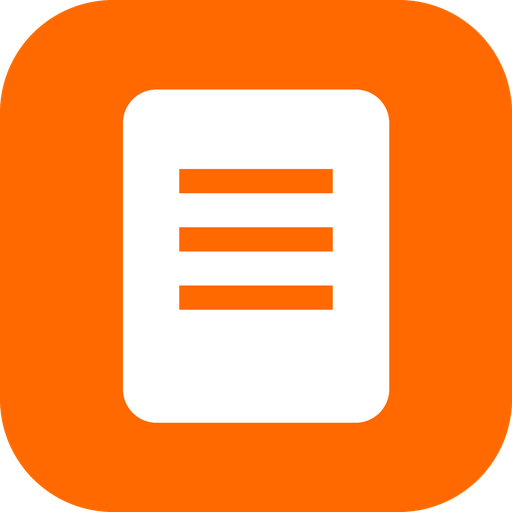
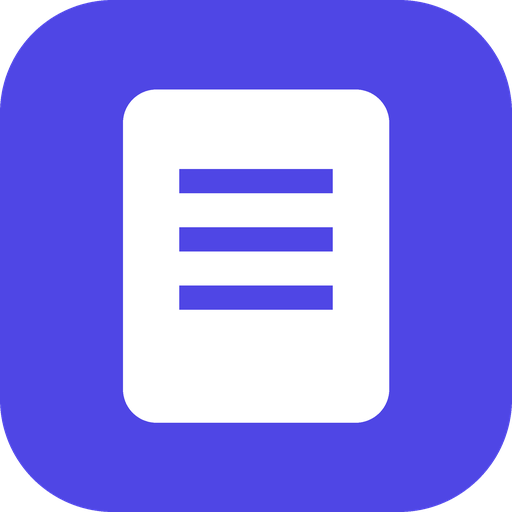
up

diff --git a/index.html b/index.html
@@ -3,7 +3,7 @@
 <head>
 <meta charset="utf-8">
 <meta name="viewport" content="width=device-width,initial-scale=1,viewport-fit=cover,interactive-widget=resizes-content">
-<meta name="theme-color" content="#FAFAF8" id="metaTheme">
+<meta name="theme-color" content="#F8F8FA" id="metaTheme">
 <meta name="color-scheme" content="light dark">
 <meta name="mobile-web-app-capable" content="yes">
 <meta name="apple-mobile-web-app-capable" content="yes">
@@ -21,15 +21,15 @@ try{var s=JSON.parse(localStorage.getItem("notes_settings_v3")||"{}");var d=s.th
 </script>
 <style>
 :root{
-  --bg:#FAFAF8;--surface:#fff;--fg:#18181B;--mut:#8A8A93;--line:#ECEAE5;--track:#D9D7D1;--seg:#fff;
-  --acc:#FF6A00;--on-acc:#1A1205;--danger:#D92D20;
+  --bg:#F8F8FA;--surface:#fff;--fg:#15151A;--mut:#8B8B96;--line:#E8E8ED;--track:#D4D4DC;--seg:#fff;
+  --acc:#4F46E5;--on-acc:#fff;--danger:#D92D20;
   --st:max(env(safe-area-inset-top,0px),var(--safe-area-inset-top,0px));
   --sb:max(env(safe-area-inset-bottom,0px),var(--safe-area-inset-bottom,0px));
   --sl:max(env(safe-area-inset-left,0px),var(--safe-area-inset-left,0px));
   --sr:max(env(safe-area-inset-right,0px),var(--safe-area-inset-right,0px));
   color-scheme:light
 }
-[data-theme=dark]{--bg:#0E0E10;--surface:#18181B;--fg:#F4F4F5;--mut:#8E8E98;--line:#26262B;--track:#3A3A42;--seg:#3A3A42;--acc:#FF7A1F;--danger:#F97066;color-scheme:dark}
+[data-theme=dark]{--bg:#0D0D11;--surface:#17171C;--fg:#F4F4F6;--mut:#8C8C98;--line:#25252C;--track:#3A3A44;--seg:#3A3A44;--acc:#8B90FF;--on-acc:#0D0D11;--danger:#F97066;color-scheme:dark}
 *{box-sizing:border-box;-webkit-tap-highlight-color:transparent}
 [hidden]{display:none!important}
 html{background:var(--bg)}
@@ -42,18 +42,10 @@ input,textarea{background:none;border:0;outline:0;width:100%}
 .ib{width:44px;height:44px;border-radius:14px;display:grid;place-items:center;flex:none;transition:background .15s}
 .ib:active{background:var(--line)}
 
-#top{position:sticky;top:0;z-index:10;max-width:680px;margin:0 auto;padding:calc(var(--st) + 10px) 16px 12px;background:var(--bg);border-bottom:1px solid transparent;transition:border-color .2s}
-#top.scrolled{border-color:var(--line)}
-.bar{display:flex;align-items:center;justify-content:space-between;margin-bottom:10px}
-h1{margin:0;font-size:30px;font-weight:800;letter-spacing:-.025em}
-.actions{display:flex;gap:2px;margin-right:-8px}
-.search{display:flex;align-items:center;gap:10px;height:46px;padding:0 6px 0 14px;background:var(--surface);border:1px solid var(--line);border-radius:14px;color:var(--mut);transition:border-color .15s}
-.search:focus-within{border-color:var(--acc)}
-.search input{flex:1;color:var(--fg);font-size:16px;-webkit-appearance:none;appearance:none}
-.search input::-webkit-search-cancel-button{display:none}
-.search .ib{width:36px;height:36px;border-radius:10px}
+#dock{position:fixed;left:calc(16px + var(--sl));bottom:calc(24px + var(--sb));z-index:20;display:flex;gap:8px}
+#dock .ib{width:50px;height:50px;border-radius:16px;background:var(--surface);border:1px solid var(--line)}
 
-#list{max-width:680px;margin:0 auto;padding:4px 16px calc(var(--sb) + 110px);display:grid;gap:10px}
+#list{max-width:680px;margin:0 auto;padding:calc(var(--st) + 20px) 16px calc(var(--sb) + 110px);display:grid;gap:10px}
 .note{display:block;width:100%;text-align:start;background:var(--surface);border:1px solid var(--line);border-radius:16px;padding:14px 16px;transition:transform .12s}
 .note:active{transform:scale(.985)}
 .nt{display:block;font-weight:600;line-height:1.35;overflow:hidden;text-overflow:ellipsis;white-space:nowrap}
@@ -80,10 +72,8 @@ h1{margin:0;font-size:30px;font-weight:800;letter-spacing:-.025em}
 ::placeholder{color:var(--mut);opacity:.7}
 
 .pbody{flex:1;overflow-y:auto;padding:8px 0 calc(var(--sb) + 32px)}
+.pbody>*+*{margin-top:14px}
 .pbar h2{margin:0 0 0 6px;font-size:20px;font-weight:700}
-.grp{margin-bottom:26px}
-.grp h3{margin:0 0 8px 4px;font-size:12px;font-weight:600;letter-spacing:.06em;text-transform:uppercase;color:var(--mut)}
-.grp p{margin:8px 4px 0;font-size:13px;color:var(--mut);line-height:1.45}
 .card{background:var(--surface);border:1px solid var(--line);border-radius:16px;overflow:hidden}
 .row{display:flex;align-items:center;justify-content:space-between;gap:14px;width:100%;min-height:54px;padding:14px 16px;text-align:start}
 .row+.row{border-top:1px solid var(--line)}
@@ -99,7 +89,6 @@ h1{margin:0;font-size:30px;font-weight:800;letter-spacing:-.025em}
 .toggle.on{background:var(--acc)}
 .toggle.on::after{transform:translateX(20px)}
 select{appearance:none;-webkit-appearance:none;background:var(--bg);border:1px solid var(--line);border-radius:10px;padding:8px 12px;font-size:14px}
-.foot{text-align:center;color:var(--mut);font-size:13px;margin:0}
 
 #lock{position:fixed;inset:0;z-index:200;display:none;flex-direction:column;align-items:center;justify-content:center;padding:24px;text-align:center;background:var(--bg)}
 #lock.show{display:flex}
@@ -135,30 +124,18 @@ select{appearance:none;-webkit-appearance:none;background:var(--bg);border:1px s
   <symbol id="i-plus" viewBox="0 0 24 24"><path d="M12 5v14M5 12h14"/></symbol>
   <symbol id="i-sliders" viewBox="0 0 24 24"><path d="M4 21v-7M4 10V3M12 21v-9M12 8V3M20 21v-5M20 12V3M1 14h6M9 8h6M17 16h6"/></symbol>
   <symbol id="i-lock" viewBox="0 0 24 24"><rect x="3" y="11" width="18" height="11" rx="2"/><path d="M7 11V7a5 5 0 0 1 10 0v4"/></symbol>
-  <symbol id="i-search" viewBox="0 0 24 24"><circle cx="11" cy="11" r="7"/><path d="M21 21l-4.3-4.3"/></symbol>
   <symbol id="i-back" viewBox="0 0 24 24"><path d="M15 18l-6-6 6-6"/></symbol>
   <symbol id="i-pin" viewBox="0 0 24 24"><path d="M9 4h6l-1 6 3 3v1H7v-1l3-3-1-6zM12 14v6"/></symbol>
   <symbol id="i-trash" viewBox="0 0 24 24"><path d="M3 6h18M8 6V4h8v2M6 6l1 14h10l1-14M10 11v5M14 11v5"/></symbol>
-  <symbol id="i-x" viewBox="0 0 24 24"><path d="M18 6L6 18M6 6l12 12"/></symbol>
   <symbol id="i-note" viewBox="0 0 24 24"><path d="M14 3H7a2 2 0 0 0-2 2v14a2 2 0 0 0 2 2h10a2 2 0 0 0 2-2V8zM14 3v5h5M9 13h6M9 17h4"/></symbol>
 </svg>
 
-<header id="top">
-  <div class="bar">
-    <h1>Notes</h1>
-    <div class="actions">
-      <button class="ib" id="btnLock" aria-label="Lock now" hidden><svg class="ic"><use href="#i-lock"/></svg></button>
-      <button class="ib" id="btnSettings" aria-label="Settings"><svg class="ic"><use href="#i-sliders"/></svg></button>
-    </div>
-  </div>
-  <label class="search">
-    <svg class="ic"><use href="#i-search"/></svg>
-    <input id="q" type="search" placeholder="Search" dir="auto" autocomplete="off" enterkeyhint="search" spellcheck="false" aria-label="Search notes">
-    <button class="ib" id="qClear" aria-label="Clear search" hidden><svg class="ic"><use href="#i-x"/></svg></button>
-  </label>
-</header>
-
 <main id="list"></main>
+
+<div id="dock">
+  <button class="ib" id="btnSettings" aria-label="Settings"><svg class="ic"><use href="#i-sliders"/></svg></button>
+  <button class="ib" id="btnLock" aria-label="Lock now" hidden><svg class="ic"><use href="#i-lock"/></svg></button>
+</div>
 
 <button id="add" aria-label="New note"><svg class="ic"><use href="#i-plus"/></svg></button>
 
@@ -182,55 +159,39 @@ select{appearance:none;-webkit-appearance:none;background:var(--bg);border:1px s
       <h2>Settings</h2>
     </div>
     <div class="pbody">
-      <div class="grp">
-        <h3>Appearance</h3>
-        <div class="seg" id="seg">
-          <button data-v="system">System</button>
-          <button data-v="light">Light</button>
-          <button data-v="dark">Dark</button>
+      <div class="seg" id="seg">
+        <button data-v="system">System</button>
+        <button data-v="light">Light</button>
+        <button data-v="dark">Dark</button>
+      </div>
+
+      <div class="card">
+        <button class="row" id="togLock" role="switch" aria-checked="false">
+          <span><b>Encryption</b><small>Locks notes with a passphrase. No recovery if you forget it.</small></span>
+          <span class="toggle"></span>
+        </button>
+        <div class="row" id="rowAuto" hidden>
+          <b>Auto-lock</b>
+          <select id="selAuto" aria-label="Auto-lock">
+            <option value="0">Immediately</option>
+            <option value="1">1 minute</option>
+            <option value="5">5 minutes</option>
+            <option value="30">30 minutes</option>
+          </select>
         </div>
+        <button class="row" id="btnChangePass" hidden><b>Change passphrase</b></button>
       </div>
 
-      <div class="grp">
-        <h3>Privacy</h3>
-        <div class="card">
-          <button class="row" id="togLock" role="switch" aria-checked="false">
-            <span><b>Encrypt notes</b><small>Protect notes with a passphrase. If you forget it, they can't be recovered.</small></span>
-            <span class="toggle"></span>
-          </button>
-          <div class="row" id="rowAuto" hidden>
-            <span><b>Lock when away</b></span>
-            <select id="selAuto" aria-label="Lock when away">
-              <option value="0">Immediately</option>
-              <option value="1">1 minute</option>
-              <option value="5">5 minutes</option>
-              <option value="30">30 minutes</option>
-            </select>
-          </div>
-          <button class="row" id="btnChangePass" hidden><b>Change passphrase</b></button>
-        </div>
-        <p>Without encryption, notes are stored on this device as plain text.</p>
+      <div class="card">
+        <button class="row" id="btnExport"><b>Save backup</b></button>
+        <button class="row" id="btnImport"><b>Restore backup</b></button>
       </div>
+      <input type="file" id="importFile" accept=".json,application/json" hidden>
 
-      <div class="grp">
-        <h3>Backup</h3>
-        <div class="card">
-          <button class="row" id="btnExport"><b>Save backup</b></button>
-          <button class="row" id="btnImport"><b>Import backup</b></button>
-        </div>
-        <input type="file" id="importFile" accept=".json,application/json" hidden>
-        <p>Backups are encrypted when encryption is on. Importing adds notes and never deletes any.</p>
+      <div class="card">
+        <button class="row" id="btnInstall"><b>Install app</b></button>
+        <button class="row danger" id="btnClearAll"><b>Delete all notes</b></button>
       </div>
-
-      <div class="grp" id="grpInstall">
-        <div class="card"><button class="row" id="btnInstall"><b>Install app</b></button></div>
-      </div>
-
-      <div class="grp">
-        <div class="card"><button class="row danger" id="btnClearAll"><b>Delete all notes</b></button></div>
-      </div>
-
-      <p class="foot">ioNote · Everything stays on this device</p>
     </div>
   </div>
 </section>
@@ -351,7 +312,6 @@ let toastTimer = null;
 
 const list = $("#list");
 const ed = $("#ed");
-const q = $("#q");
 
 const uid = () => crypto.randomUUID ? crypto.randomUUID() : Date.now().toString(36) + Math.random().toString(36).slice(2, 8);
 const esc = s => String(s ?? "").replace(/[&<>"']/g, c => ({ "&": "&amp;", "<": "&lt;", ">": "&gt;", '"': "&quot;", "'": "&#39;" }[c]));
@@ -382,7 +342,7 @@ const mq = matchMedia("(prefers-color-scheme: dark)");
 function applyTheme() {
   const dark = settings.theme === "dark" || (settings.theme === "system" && mq.matches);
   document.documentElement.dataset.theme = dark ? "dark" : "light";
-  $("#metaTheme").content = dark ? "#0E0E10" : "#FAFAF8";
+  $("#metaTheme").content = dark ? "#0D0D11" : "#F8F8FA";
   document.querySelectorAll("#seg button").forEach(b => b.setAttribute("aria-pressed", String(b.dataset.v === settings.theme)));
 }
 mq.addEventListener("change", applyTheme);
@@ -416,14 +376,10 @@ async function loadNotes() {
 
 /* ── List ── */
 function render() {
-  const term = q.value.trim().toLowerCase();
-  $("#qClear").hidden = !q.value;
-  const items = notes
-    .filter(n => !term || (n.t + "\n" + n.b).toLowerCase().includes(term))
-    .sort((a, b) => (b.pinned - a.pinned) || (b.d - a.d));
+  const items = [...notes].sort((a, b) => (b.pinned - a.pinned) || (b.d - a.d));
 
   if (!items.length) {
-    list.innerHTML = `<div class="empty"><svg class="ic"><use href="#i-note"/></svg><b>${term ? "No results" : "No notes yet"}</b><span>${term ? "Try a different word" : "Tap + to write your first note"}</span></div>`;
+    list.innerHTML = `<div class="empty"><svg class="ic"><use href="#i-note"/></svg><b>No notes yet</b><span>Tap + to write your first note</span></div>`;
     return;
   }
   list.innerHTML = items.map(n => {
@@ -601,7 +557,6 @@ async function lockApp() {
   importData = null;
   $("#t").value = "";
   $("#b").value = "";
-  q.value = "";
   ed.classList.remove("open");
   $("#settings").classList.remove("open");
   $("#installGuide").classList.remove("show");
@@ -690,7 +645,7 @@ async function triggerInstall() {
 }
 
 addEventListener("beforeinstallprompt", e => { e.preventDefault(); deferredPrompt = e; });
-addEventListener("appinstalled", () => { deferredPrompt = null; $("#grpInstall").hidden = true; toast("App installed"); });
+addEventListener("appinstalled", () => { deferredPrompt = null; $("#btnInstall").hidden = true; toast("App installed"); });
 
 /* ── Events ── */
 $("#add").onclick = () => {
@@ -704,8 +659,6 @@ list.onclick = e => {
   const n = el && notes.find(x => x.id === el.dataset.id);
   if (n) openNote(n);
 };
-q.oninput = render;
-$("#qClear").onclick = () => { q.value = ""; render(); q.focus(); };
 
 $("#t").oninput = scheduleSave;
 $("#b").oninput = scheduleSave;
@@ -785,8 +738,6 @@ $("#btnClearAll").onclick = async () => {
   toast("All notes deleted");
 };
 
-addEventListener("scroll", () => $("#top").classList.toggle("scrolled", scrollY > 4), { passive: true });
-
 addEventListener("popstate", () => {
   if (ed.classList.contains("open")) closeNote();
   $("#settings").classList.remove("open");
@@ -814,7 +765,7 @@ if ("serviceWorker" in navigator) navigator.serviceWorker.register("sw.js").catc
 (async () => {
   applyTheme();
   refreshSecurityUI();
-  $("#grpInstall").hidden = isStandalone();
+  $("#btnInstall").hidden = isStandalone();
   if (navigator.storage && navigator.storage.persist) navigator.storage.persist();
 
   if (settings.lockEnabled) {

diff --git a/sw.js b/sw.js
@@ -1,4 +1,4 @@
-const CACHE = "ionote-v3";
+const CACHE = "ionote-v4";
 const ASSETS = [
   "./",
   "./index.html",

diff --git a/README.md b/README.md
@@ -10,7 +10,7 @@ Live: https://ionote.github.io
 - Optional encryption with a passphrase (AES-256-GCM, PBKDF2-SHA256 600,000 iterations)
 - Auto-lock when the app is left for a chosen time
 - Encrypted backups saved as a file, import merges notes
-- Pin, search, undo delete, light, dark and system themes
+- Pin, undo delete, light, dark and system themes
 - No account, no server, no analytics, no external requests
 
 ## Privacy model
